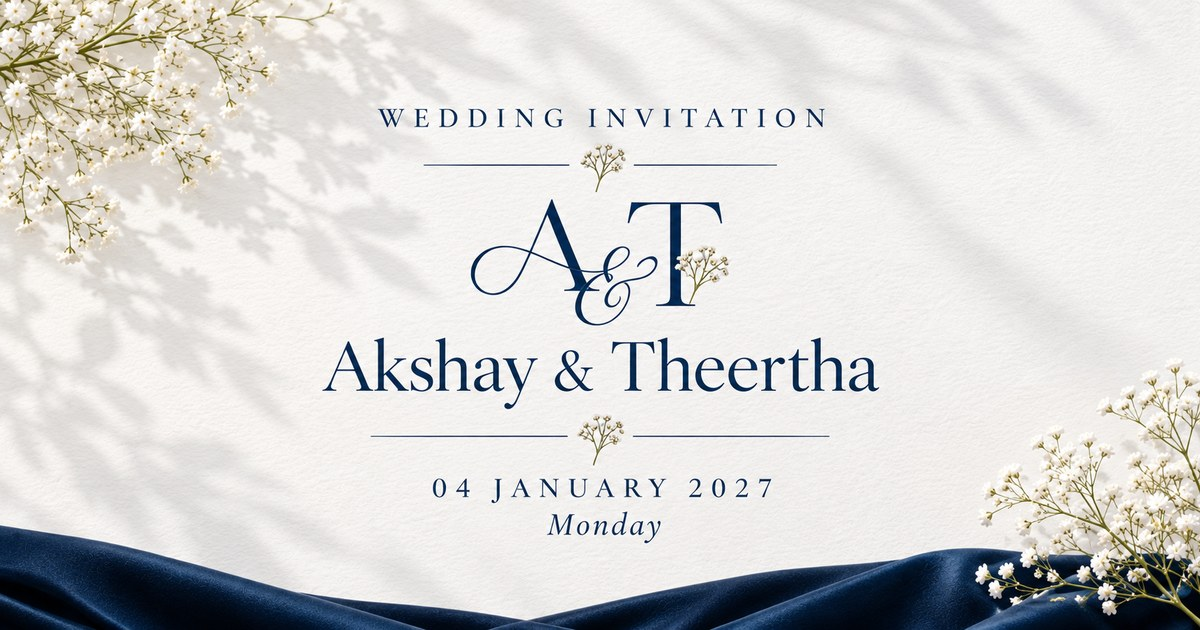
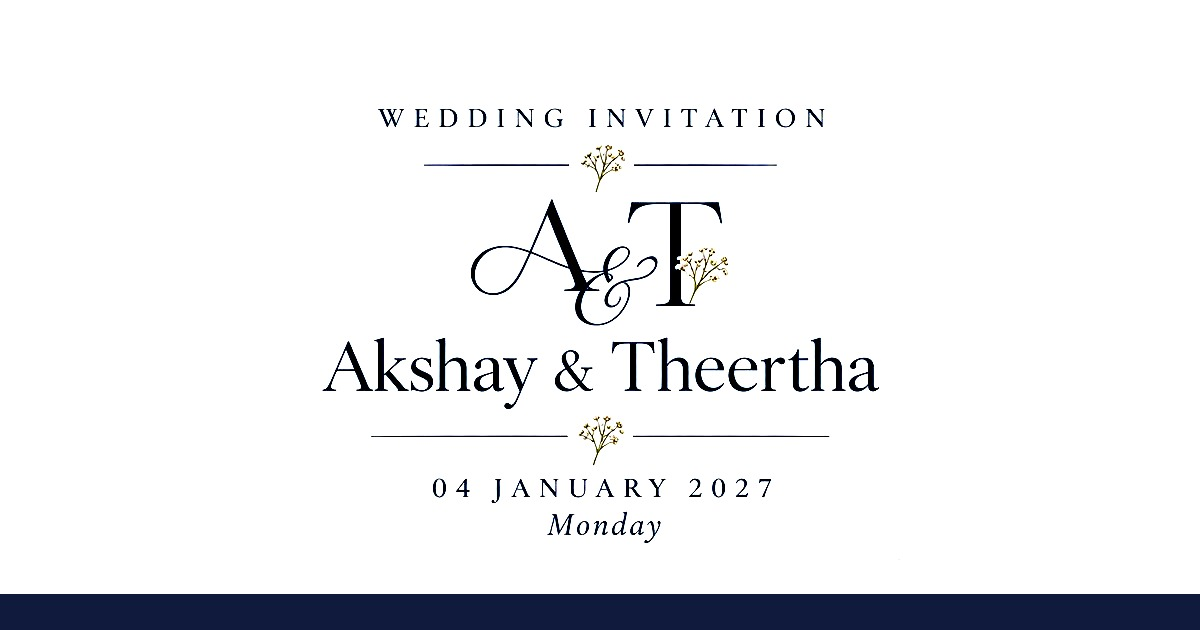
Update wedding invitation

diff --git a/index.html b/index.html
@@ -13,7 +13,7 @@
 <meta property="og:image" content="https://akshay-theertha.vercel.app/assets/images/og-image.jpg">
 <meta property="og:image:width" content="1200">
 <meta property="og:image:height" content="630">
-<meta property="og:image:alt" content="Akshay and Theertha by the sea, 04 January 2027">
+<meta property="og:image:alt" content="Akshay &amp; Theertha, Wedding Invitation, 04 January 2027">
 <meta name="twitter:card" content="summary_large_image">
 <meta name="twitter:title" content="Akshay & Theertha — Wedding Invitation">
 <meta name="twitter:image" content="https://akshay-theertha.vercel.app/assets/images/og-image.jpg">
@@ -21,7 +21,6 @@
 <link rel="preconnect" href="https://fonts.gstatic.com" crossorigin>
 <link href="https://fonts.googleapis.com/css2?family=Allura&family=Cormorant+Garamond:ital,wght@0,300;0,400;0,500;1,300;1,400&family=Montserrat:wght@300;400&display=swap" rel="stylesheet">
 <link rel="preload" as="image" href="assets/images/video-poster.jpg">
-<link rel="preload" as="image" href="assets/images/bg-breath.webp">
 <link rel="stylesheet" href="css/style.css">
 </head>
 <body class="intro-active">
@@ -40,7 +39,6 @@
 
 <!-- ============ 3. HERO ============ -->
 <section class="sec hero" id="hero">
-  <div class="bg" style="background-image:url(assets/images/bg-breath.webp);background-position:center top"></div>
   <div class="wrap center">
     <p class="eyebrow reveal">Wedding Invitation</p>
     <span class="vline reveal" aria-hidden="true"></span>
@@ -54,7 +52,6 @@
 
 <!-- ============ 4. INVITATION MESSAGE ============ -->
 <section class="sec message" id="message">
-  <div class="bg" style="background-image:url(assets/images/bg-chiffon.webp);background-position:center top"></div>
   <div class="wrap center narrow">
     <span class="script reveal">With joy</span>
     <span class="divider reveal" aria-hidden="true"><i></i><b></b><i></i></span>
@@ -68,26 +65,21 @@
 
 <!-- ============ 5. COUPLE PHOTOS ============ -->
 <section class="sec collage-sec" id="photos">
-  <div class="bg" style="background-image:url(assets/images/bg-botanical.webp);background-position:center top"></div>
   <div class="collage">
-    <span class="tape tape-a" aria-hidden="true"></span>
     <figure class="photo photo-1">
       <img src="assets/images/couple-sea.jpeg" width="960" height="1280" alt="Akshay and Theertha standing together in the sea at sunset" loading="lazy" decoding="async">
     </figure>
     <figure class="photo photo-2">
       <img src="assets/images/couple-embrace.jpeg" width="960" height="1280" alt="Akshay and Theertha embracing on the beach" loading="lazy" decoding="async">
     </figure>
-    <span class="tape tape-b" aria-hidden="true"></span>
     <h2 class="two-hearts fade-txt">Two<br><span>Hearts</span></h2>
     <p class="cap cap-left fade-txt">A<br>Beautiful<br>Journey<br>Begins</p>
     <p class="cap cap-right fade-txt">Same<br>People<br>Different<br>Adventures<br>Forever</p>
-    <svg class="sprig sprig-a" viewBox="0 0 120 120" aria-hidden="true"><g fill="none" stroke="#A49380" stroke-width=".8" stroke-linecap="round"><path d="M10 112 C 34 84, 56 56, 100 12"/><path d="M34 86 L22 74 M44 74 L30 60 M52 64 L44 48 M62 54 L56 38 M72 42 L72 26 M44 76 L58 70 M56 62 L72 58 M66 50 L84 48"/></g><g fill="#F8F1E7" stroke="#A49380" stroke-width=".6"><circle cx="22" cy="74" r="3"/><circle cx="30" cy="60" r="3"/><circle cx="44" cy="48" r="3"/><circle cx="56" cy="38" r="3"/><circle cx="72" cy="26" r="3"/><circle cx="58" cy="70" r="3"/><circle cx="72" cy="58" r="3"/><circle cx="84" cy="48" r="3"/><circle cx="100" cy="12" r="3"/></g></svg>
   </div>
 </section>
 
 <!-- ============ 6. WEDDING DETAILS ============ -->
 <section class="sec details" id="details">
-  <div class="bg" style="background-image:url(assets/images/bg-breath.webp);background-position:center 30%"></div>
   <div class="wrap center narrow">
     <p class="eyebrow reveal">The Wedding</p>
     <h2 class="display reveal">Monday, 04 January 2027</h2>
@@ -127,7 +119,6 @@
 
 <!-- ============ 7. SCHEDULE ============ -->
 <section class="sec schedule" id="schedule">
-  <div class="bg" style="background-image:url(assets/images/bg-chiffon.webp);background-position:center top"></div>
   <div class="wrap center narrow">
     <p class="eyebrow reveal">Schedule</p>
     <h2 class="display reveal">Order of the Day</h2>
@@ -153,7 +144,6 @@
 
 <!-- ============ 8. VENUE ============ -->
 <section class="sec venue" id="venue">
-  <div class="bg" style="background-image:url(assets/images/bg-navy-silk.webp);background-position:right bottom"></div>
   <div class="wrap center narrow">
     <p class="eyebrow reveal">Venue &amp; Location</p>
     <h2 class="display reveal">Find Us</h2>
@@ -174,7 +164,6 @@
 
 <!-- ============ 9. CLOSING ============ -->
 <section class="sec closing" id="closing">
-  <div class="bg" style="background-image:url(assets/images/bg-midnight.webp);background-position:center top"></div>
   <div class="wrap center narrow">
     <span class="script big reveal">With Love &amp; Blessings</span>
     <span class="divider reveal" aria-hidden="true"><i></i><b></b><i></i></span>

diff --git a/css/style.css b/css/style.css
@@ -21,7 +21,7 @@ a{color:inherit}
 /* phones: the 9:16 artwork fills the screen; wider screens keep full ratio on ivory */
 @media (max-aspect-ratio:10/16){.intro-media{object-fit:cover}}
 @media (min-aspect-ratio:10/16){
-  .intro-media{width:auto;max-width:100%;height:100%;-webkit-mask-image:linear-gradient(90deg,transparent,#000 6%,#000 94%,transparent);mask-image:linear-gradient(90deg,transparent,#000 6%,#000 94%,transparent)}
+  .intro-media{width:auto;max-width:100%;height:100%}
 }
 #skip-intro{position:absolute;right:max(18px,env(safe-area-inset-right));bottom:max(22px,env(safe-area-inset-bottom));z-index:2;background:rgba(255,255,255,.55);border:1px solid rgba(23,32,68,.25);color:var(--brown);font:400 10px/1 var(--sans);letter-spacing:.28em;text-transform:uppercase;padding:13px 18px;min-height:44px;border-radius:999px;cursor:pointer;backdrop-filter:blur(4px);-webkit-backdrop-filter:blur(4px);opacity:.8;transition:opacity .3s}
 #skip-intro:hover,#skip-intro:focus-visible{opacity:1}
@@ -197,3 +197,20 @@ body{background:#fff}
 #open-invitation[hidden]{display:none}
 #open-invitation{min-height:52px;padding:0 40px;border:1px solid var(--ink);font:400 11px/1 var(--sans);letter-spacing:.32em;text-transform:uppercase;cursor:pointer;transition:background .35s,color .35s;-webkit-tap-highlight-color:transparent;border-radius:0}
 @media(prefers-reduced-motion:reduce){#open-invitation{transition:none}}
+
+
+/* =====================  PURE WHITE · NO LEAVES · NO SHADOWS  ===================== */
+.hero,.message,.collage-sec,.details,.schedule,.venue{background:#fff}
+.photo{box-shadow:none;border:1px solid #E6E6E6}
+.tape,.sprig{display:none}
+.venue-card{background:#fff;box-shadow:none}
+#intro{background:#fff}
+
+/* opening artwork: wash the grey leaf-shadows to pure white, then mask out the two corner sprigs */
+.intro-media{
+  filter:brightness(.86) contrast(3);
+  -webkit-mask-image:radial-gradient(ellipse 90% 34% at 0 0,#000 80%,transparent 100%),radial-gradient(ellipse 85% 30% at 100% 100%,#000 80%,transparent 100%),linear-gradient(#000,#000);
+  mask-image:radial-gradient(ellipse 90% 34% at 0 0,#000 80%,transparent 100%),radial-gradient(ellipse 85% 30% at 100% 100%,#000 80%,transparent 100%),linear-gradient(#000,#000);
+  -webkit-mask-composite:xor,xor,source-over;
+  mask-composite:exclude,exclude,add;
+}

diff --git a/js/main.js b/js/main.js
@@ -131,7 +131,6 @@
     var tl = gsap.timeline({ scrollTrigger: { trigger: ".collage", start: "top 75%", once: true } });
     tl.from(".photo-1", { opacity: 0, y: 45, scale: .96, duration: 1.2, ease: "power2.out" })
       .from(".photo-2", { opacity: 0, y: 45, scale: .96, duration: 1.2, ease: "power2.out" }, 0.3)
-      .from(".tape", { opacity: 0, duration: 1, stagger: .2, ease: "power1.out" }, 0.6)
       .from(".fade-txt", { opacity: 0, y: 10, duration: 1, stagger: .25, ease: "power1.out" }, 0.8);
 
     // subtle background parallax
